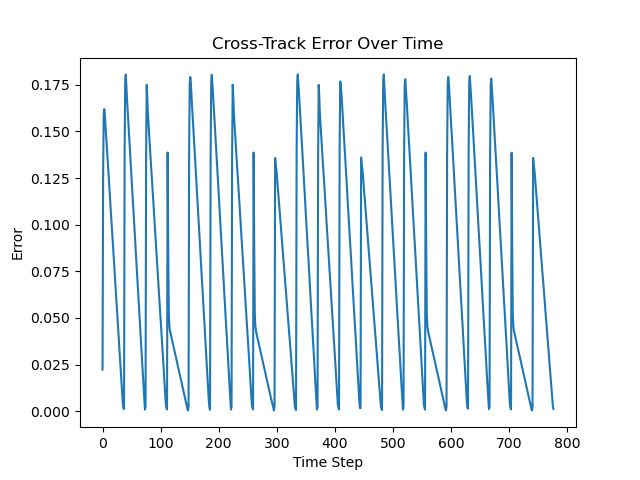
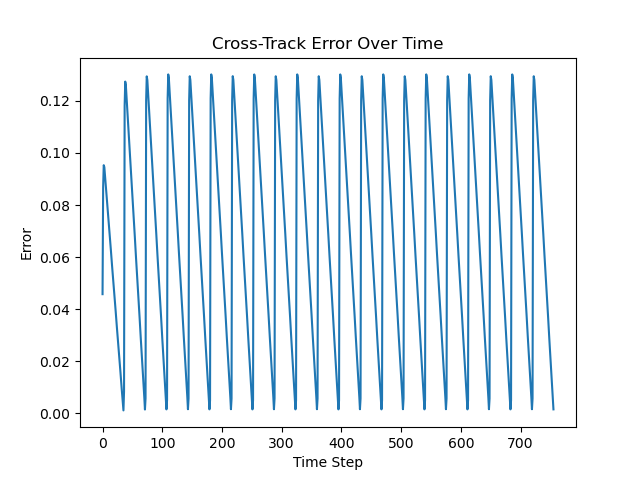
Adding updated README file with summary of results and plots. Added pngs to the first_order_boustrophedon_navigator folder as well for any plots referred to within the report for the final parameters used.

diff --git a/assignments/first_order_boustrophedon_navigator/first_order_boustrophedon_navigator/boustrophedon_controller.py b/assignments/first_order_boustrophedon_navigator/first_order_boustrophedon_navigator/boustrophedon_controller.py
@@ -24,9 +24,9 @@ class BoustrophedonController(Node):
                 #('Kp_angular', 1.0),
                 #('Kd_angular', 0.1),
                 ('Kp_linear', 10.0),
-                ('Kd_linear', 0.3),
-                ('Kp_angular', 9.0),
-                ('Kd_angular', 0.01),
+                ('Kd_linear', 0.5), #increasing seems to conserve spacing in the cornering
+                ('Kp_angular', 1.0),#move back to 15 to see impact, when this is too high you get wiggling
+                ('Kd_angular', 0.01), #keeping this small keeps wiggling at bay in corners
                 ('spacing', 0.5)
             ]
         )

diff --git a/assignments/first_order_boustrophedon_navigator/README_UPDATED.md b/assignments/first_order_boustrophedon_navigator/README_UPDATED.md
@@ -1,9 +1,9 @@
 # SES598 HW1: First-Order Boustrophedon Navigator
 
-In this assignment, the goal is to understand the provided code in ROS2 with Turtlesim, and refactor and/or tune the navigator to implement a precise lawnmower survey (a boustrophedon pattern). The current code will do a lawmower pattern, which is not a uniform lawnmower survey. The goal is to determined the gains for the controller that produces an optimized lawnmower survey with minimal cross track error [1].
+In this assignment, the goal is to understand the provided code in ROS2 with Turtlesim, and tune the navigator to implement a precise lawnmower survey (a boustrophedon pattern). The current code will do a lawmower pattern, which is not a uniform lawnmower survey. The goal is to determined the gains for the controller that produces an optimized lawnmower survey with minimal cross track error [1].
 
 
-## Background
+## Background [1]
 Boustrophedon patterns (from Greek: "ox-turning", like an ox drawing a plow) are fundamental coverage survey trajectories useful in space exploration and Earth observation. These patterns are useful for:
 
 - **Space Exploration**: Rovers could use boustrophedon patterns to systematically survey areas of interest, ensuring complete coverage when searching for geological samples or mapping terrain. However, due to energy constraints, informative paths are usually optimized, and this results in paths that are sparser than complete coverage sampling, and may still produce high-accuracy reconstructions. 
@@ -26,8 +26,9 @@ Tune a PD controller to make a first-order system execute the most precise boust
 
 ## The Challenge
 
-### 1. Controller Tuning (60 points)
+### 1. Controller Tuning
 #### 1.1 Original Tuning Paramters
+The original gains provided in the controller are as shown below:
 
 ```python
 # Controller parameters to tune
@@ -36,42 +37,106 @@ self.Kd_linear = 0.1   # Derivative gain for linear velocity
 self.Kp_angular = 1.0  # Proportional gain for angular velocity
 self.Kd_angular = 0.1  # Derivative gain for angular velocity
 ```
+This results in a simulation where the robot has a high cross track error, as shown below.
 
-### 2. Pattern Parameters (20 points)
-Optimize the boustrophedon pattern parameters:
+<img width="500" alt="Original Simulation Pattern" src="originalsimulationplot.png" />
+
+
+
+#### 1.2 Pattern Parameters
+**Please note** that it was decided in class the week of January 26th that this was a parameter that did not need to be tuned. Therefore, the spacing parameter is left as is at an initial value of 0.5.
+
 ```python
 # Pattern parameters to tune
-self.spacing = 1.0     # Spacing between lines
+self.spacing = 0.5     # Spacing between lines
 ```
-
-**Please note** that it was decided in class the week of January 26th that this was a parameter that did not need to be tuned.
 
 ### 3. Analysis and Documentation (20 points)
 
 #### 3.1 Tuning Methodology
 
+The controller was tuned manually through trial and error to understand the impact of each Kp_linear, Kd_linear, Kp_angular, and Kd_angular parameter. The values initially started out small and were gradually increased to understand the impact of the parameter on performance. 
+
+It is not efficient to constantly adjust each parameter each time. It is beneficial to start with a single parameter, and then move to the subsequent parameter once it is operating good to repeat the process. The order of recommended parameter tuning: Kp_linear, Kp_angular, Kd_angular, and then Kd_angular.
+
+WWith the provided starting values, the Kp_linear parameters is updated/increased from a value of 1.0 to 5.0. This causes the robot to go in the same repeated, tight circle. If it is too small, it will not reach a circular motion.
+
+The next parameter to tune is the Kp_angular. Increasing this parameter forces the robot out of the repeated circle and start to follow the lawn mover, zip-zag pattern. Increasing this value with the increased Kp_linear allows the robot to track closer (reduce error) and have less overlap in the trajectory. However, as this increases it casues some additional wiggling in the cornering at the waypoints. Increasing the values of Kp_linear and Kp_angular to a value of 10.0 each will get the the cross track error around 0.2.
+
+However, there is some overlap in the pattern at this point. It is then needed to tune Kd_linear as this will conserve some of the spacing and limit some of the overlap in the pattern. This was increased to a value of 0.5 which seems to also help conserve some of the sapcing in the corners when the turtle turns directions.
+
+Then the final Kd_angular term is updated to reduce some of the wiggling in the cornering at the waypoints. If this value is large it will cause lots of spinning and deviation from the pattern. Adjusting this to be a smaller value reduces the wiggling within the cornering and makes the chang in direction smoother.
+
+
 ##### 3.1.1 Final Parameter Values and Justification
+The final parameter gains provided in the controller are as shown below. The process followed aboved created a cross track less than 0.2.
+
+```python
+# Controller parameters to tune
+self.Kp_linear = 10.0   # Proportional gain for linear velocity
+self.Kd_linear = 0.5   # Derivative gain for linear velocity
+self.Kp_angular = 10.0  # Proportional gain for angular velocity
+self.Kd_angular = 0.01  # Derivative gain for angular velocity
+```
+The final pattern produced by the robot is shown below with the associated rqt cross track data error.
+
+<img width="500" alt="Turtlesim Pattern" src="finalpattern_with_rqt.png" />
+
 
 #### 3.2 Performance Plots and Metrics
 
 ##### 3.2.1 Cross-track error over time
+The resulting plot for the cross track error shows the error in general reaches a maximum value of approximately 0.15.
 
-<img width="800" alt="Cross Track Error" src="cross_track_error.png" />
+<img width="500" alt="Cross Track Error" src="cross_track_error.png" />
 
 ##### 3.2.2 Trajectory plot
+The trajectory plot shows the pattern the robot follows, successfully acheving a "lawn-mower" pattern.
 
-<img width="800" alt="Trajectory Plot" src="trajectory.png" />
+<img width="500" alt="Trajectory Plot" src="trajectory.png" />
 
 ##### 3.2.3 Velocity profiles
+The robots successfull reaches each of the waypoints and smoothly corners.
 
-<img width="800" alt="Velocity Profiles" src="velocity_profiles.png" />
+<img width="500" alt="Velocity Profiles" src="velocity_profiles.png" />
 
 ##### 3.2.4 Performance metrics and analysis
 
+<img width="500" alt="RQT Data" src="rqtplot.png" />
+
+
+
 #### 3.3 Challenges encountered and solutions
 
-#### 3.4 Comparison of different parameter sets
+In general it is very time consuming to iterate the parameters manually, let the simulation run, and see what the final outcome is. It is also very difficult to tune all the parameters to get an ideal output at the same time.
 
+It is recommended to only attempt to tune a single parameter at a time by slowly increasing or increasing the parameter to get a desired output. Specifically, it is beneficial to play around with the simulation and see which parameters have a more clean, and direct impact to being changed. These are the parameters that are easiest to start tuning and progress to the next parameters once decent performance is achieved.
+
+The embedded rqt plotting tool stuggles to handle more than just one set of data at a time.
+
+It is recommended to completed a simulation and open the rqt tool. The parameters of interest can be added and when restarted, usually maintains the parameters. Turning off autoscroling helps with not crashing and closing the turtle sim once all the data is recorded.
+
+#### 3.4 Comparison of different parameter sets
+A high derivative gain for angular velocity (Kd_angular) results in unstable behavior. There is a lot of twisting and oscillating.
+
+```python
+# Controller parameters to tune
+self.Kp_linear = 10  # Proportional gain for linear velocity
+self.Kd_linear = 0.5  # Derivative gain for linear velocity
+self.Kp_angular = 10.0 # Proportional gain for angular velocity
+self.Kd_angular = 0.5  # Derivative gain for angular velocity
+```
+<img width="500" alt="Velocity Profiles" src="highKdangular.png" />
+
+A high proportional gain for linear velocity (Kp_linear) results in unstable behavior. It circles the same location repeatedly.
+```python
+# Controller parameters to tune
+self.Kp_linear = 10  # Proportional gain for linear velocity
+self.Kd_linear = 0.5  # Derivative gain for linear velocity
+self.Kp_angular = 1.0 # Proportional gain for angular velocity
+self.Kd_angular = 0.01  # Derivative gain for angular velocity
+```
+<img width="500" alt="Velocity Profiles" src="highKplinear.png" />
 
 
 ## 4 References: 
